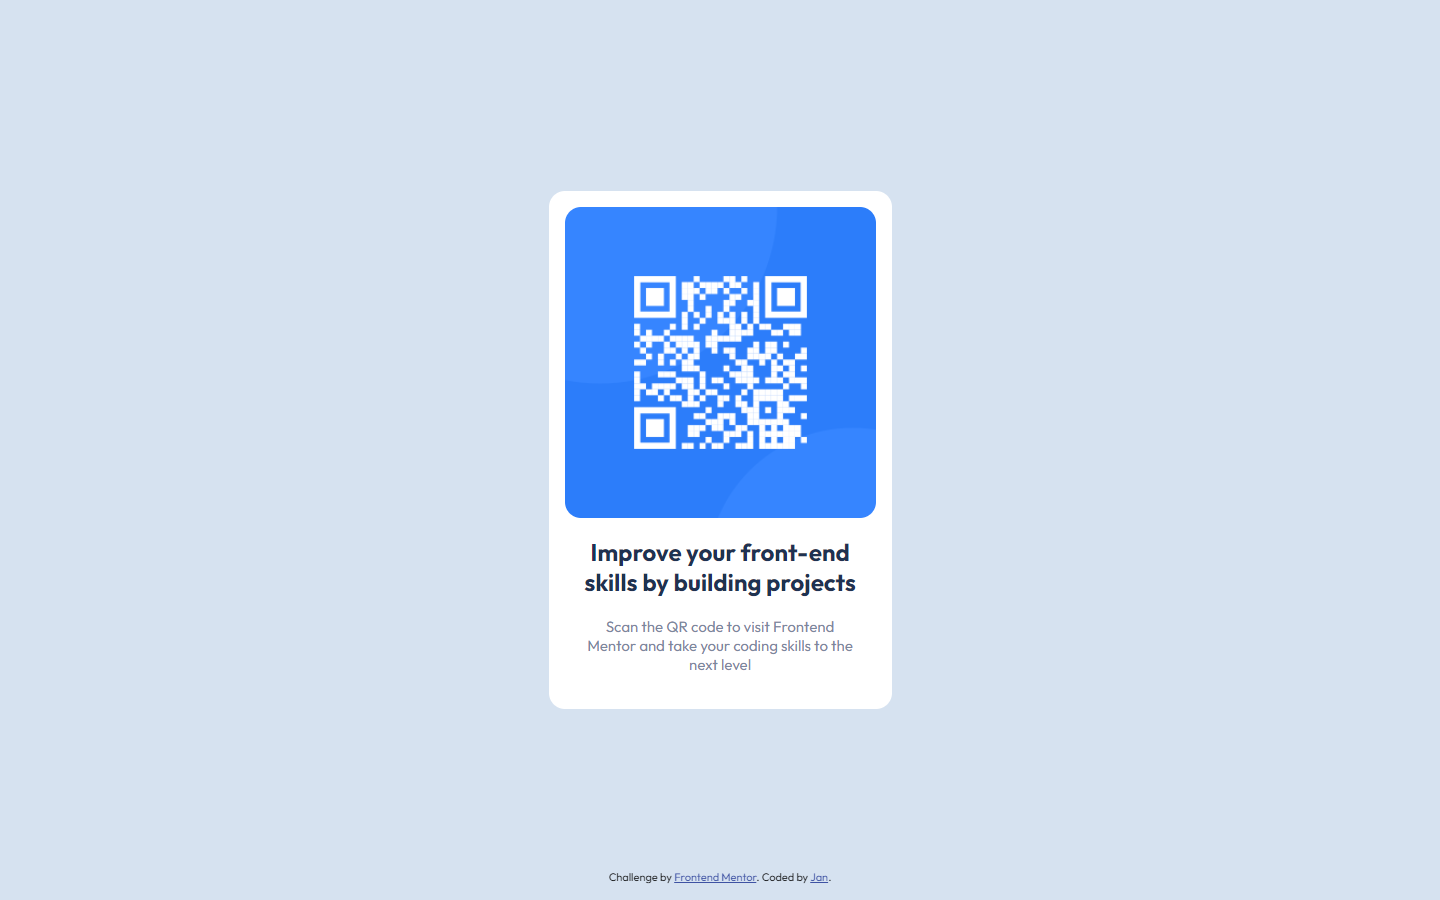
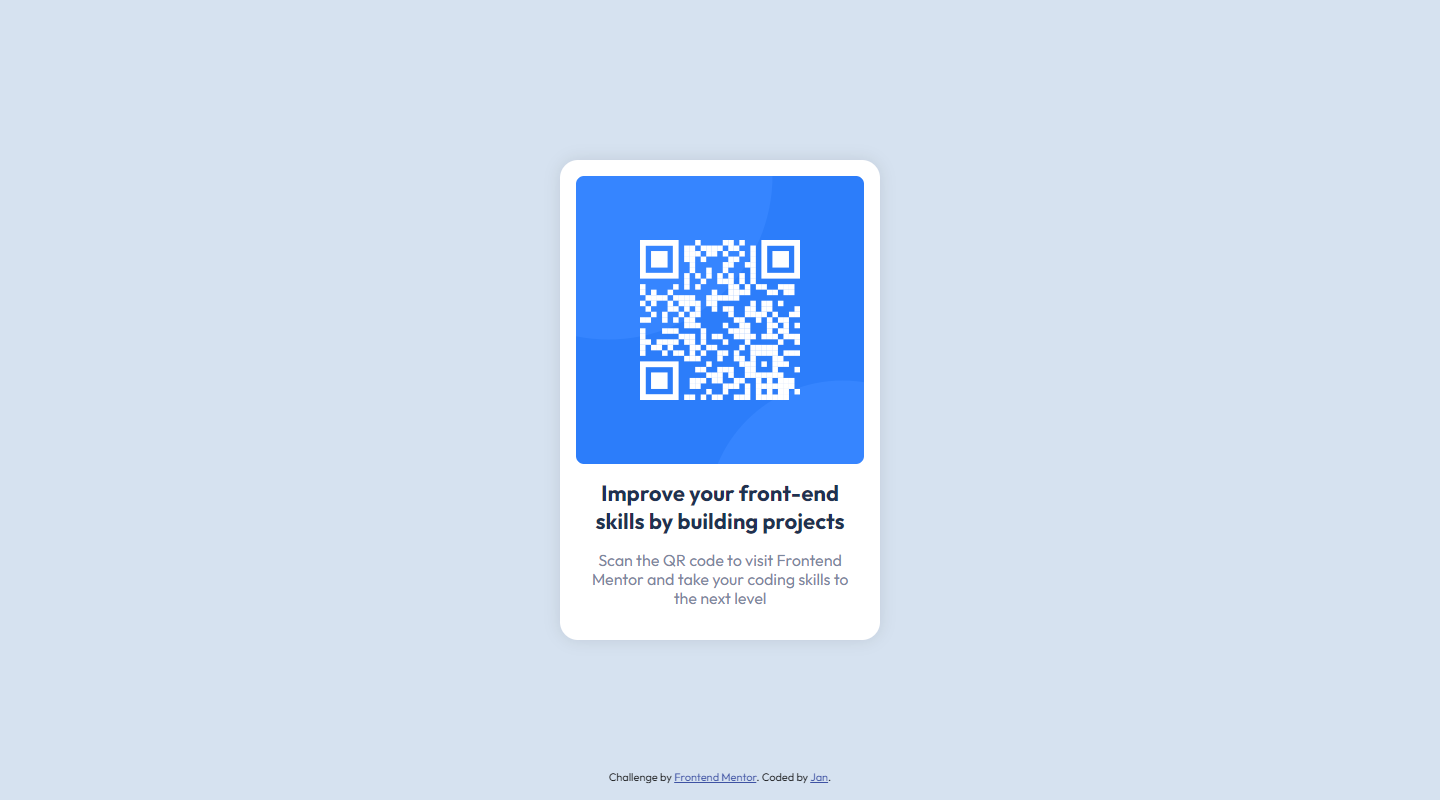
Updated style.css and screenshots

Changed region(s): [[0.375, 0.1875, 0.625, 0.8125], [0.4375, 0.2812, 0.5625, 0.5], [0.4375, 0.9688, 0.5625, 1.0]]

diff --git a/css/style.css b/css/style.css
@@ -33,20 +33,28 @@ body {
 article {
   background: white;
   padding: 1rem;
-  max-width: calc(375px - 2rem);
+  max-width: 20rem;
   display: grid;
-  gap: 1.2rem;
+  gap: 1rem;
   box-shadow: 0 0 1rem 0 rgba(0, 0, 0, 0.1);
 }
 
-article, article img {border-radius: 1rem;}
+article {border-radius: 1.125rem;}
+article img {
+  border-radius: 0.5rem;
+  width: 100%;
+}
 
-article img {width: 100%;}
+article h1 {
+  font-size: 1.375rem;
+  line-height: 1.272;
+}
 
 article > :last-child {
-  margin-block-end: 1.2rem;
-  padding-inline: 1.2rem;
-  font-size: 0.9375rem ;
+  margin-block-end: 1rem;
+  padding-inline: 0.5rem;
+  font-size: 1rem;
+  line-height: 1.1875;
 }
 
 footer {
